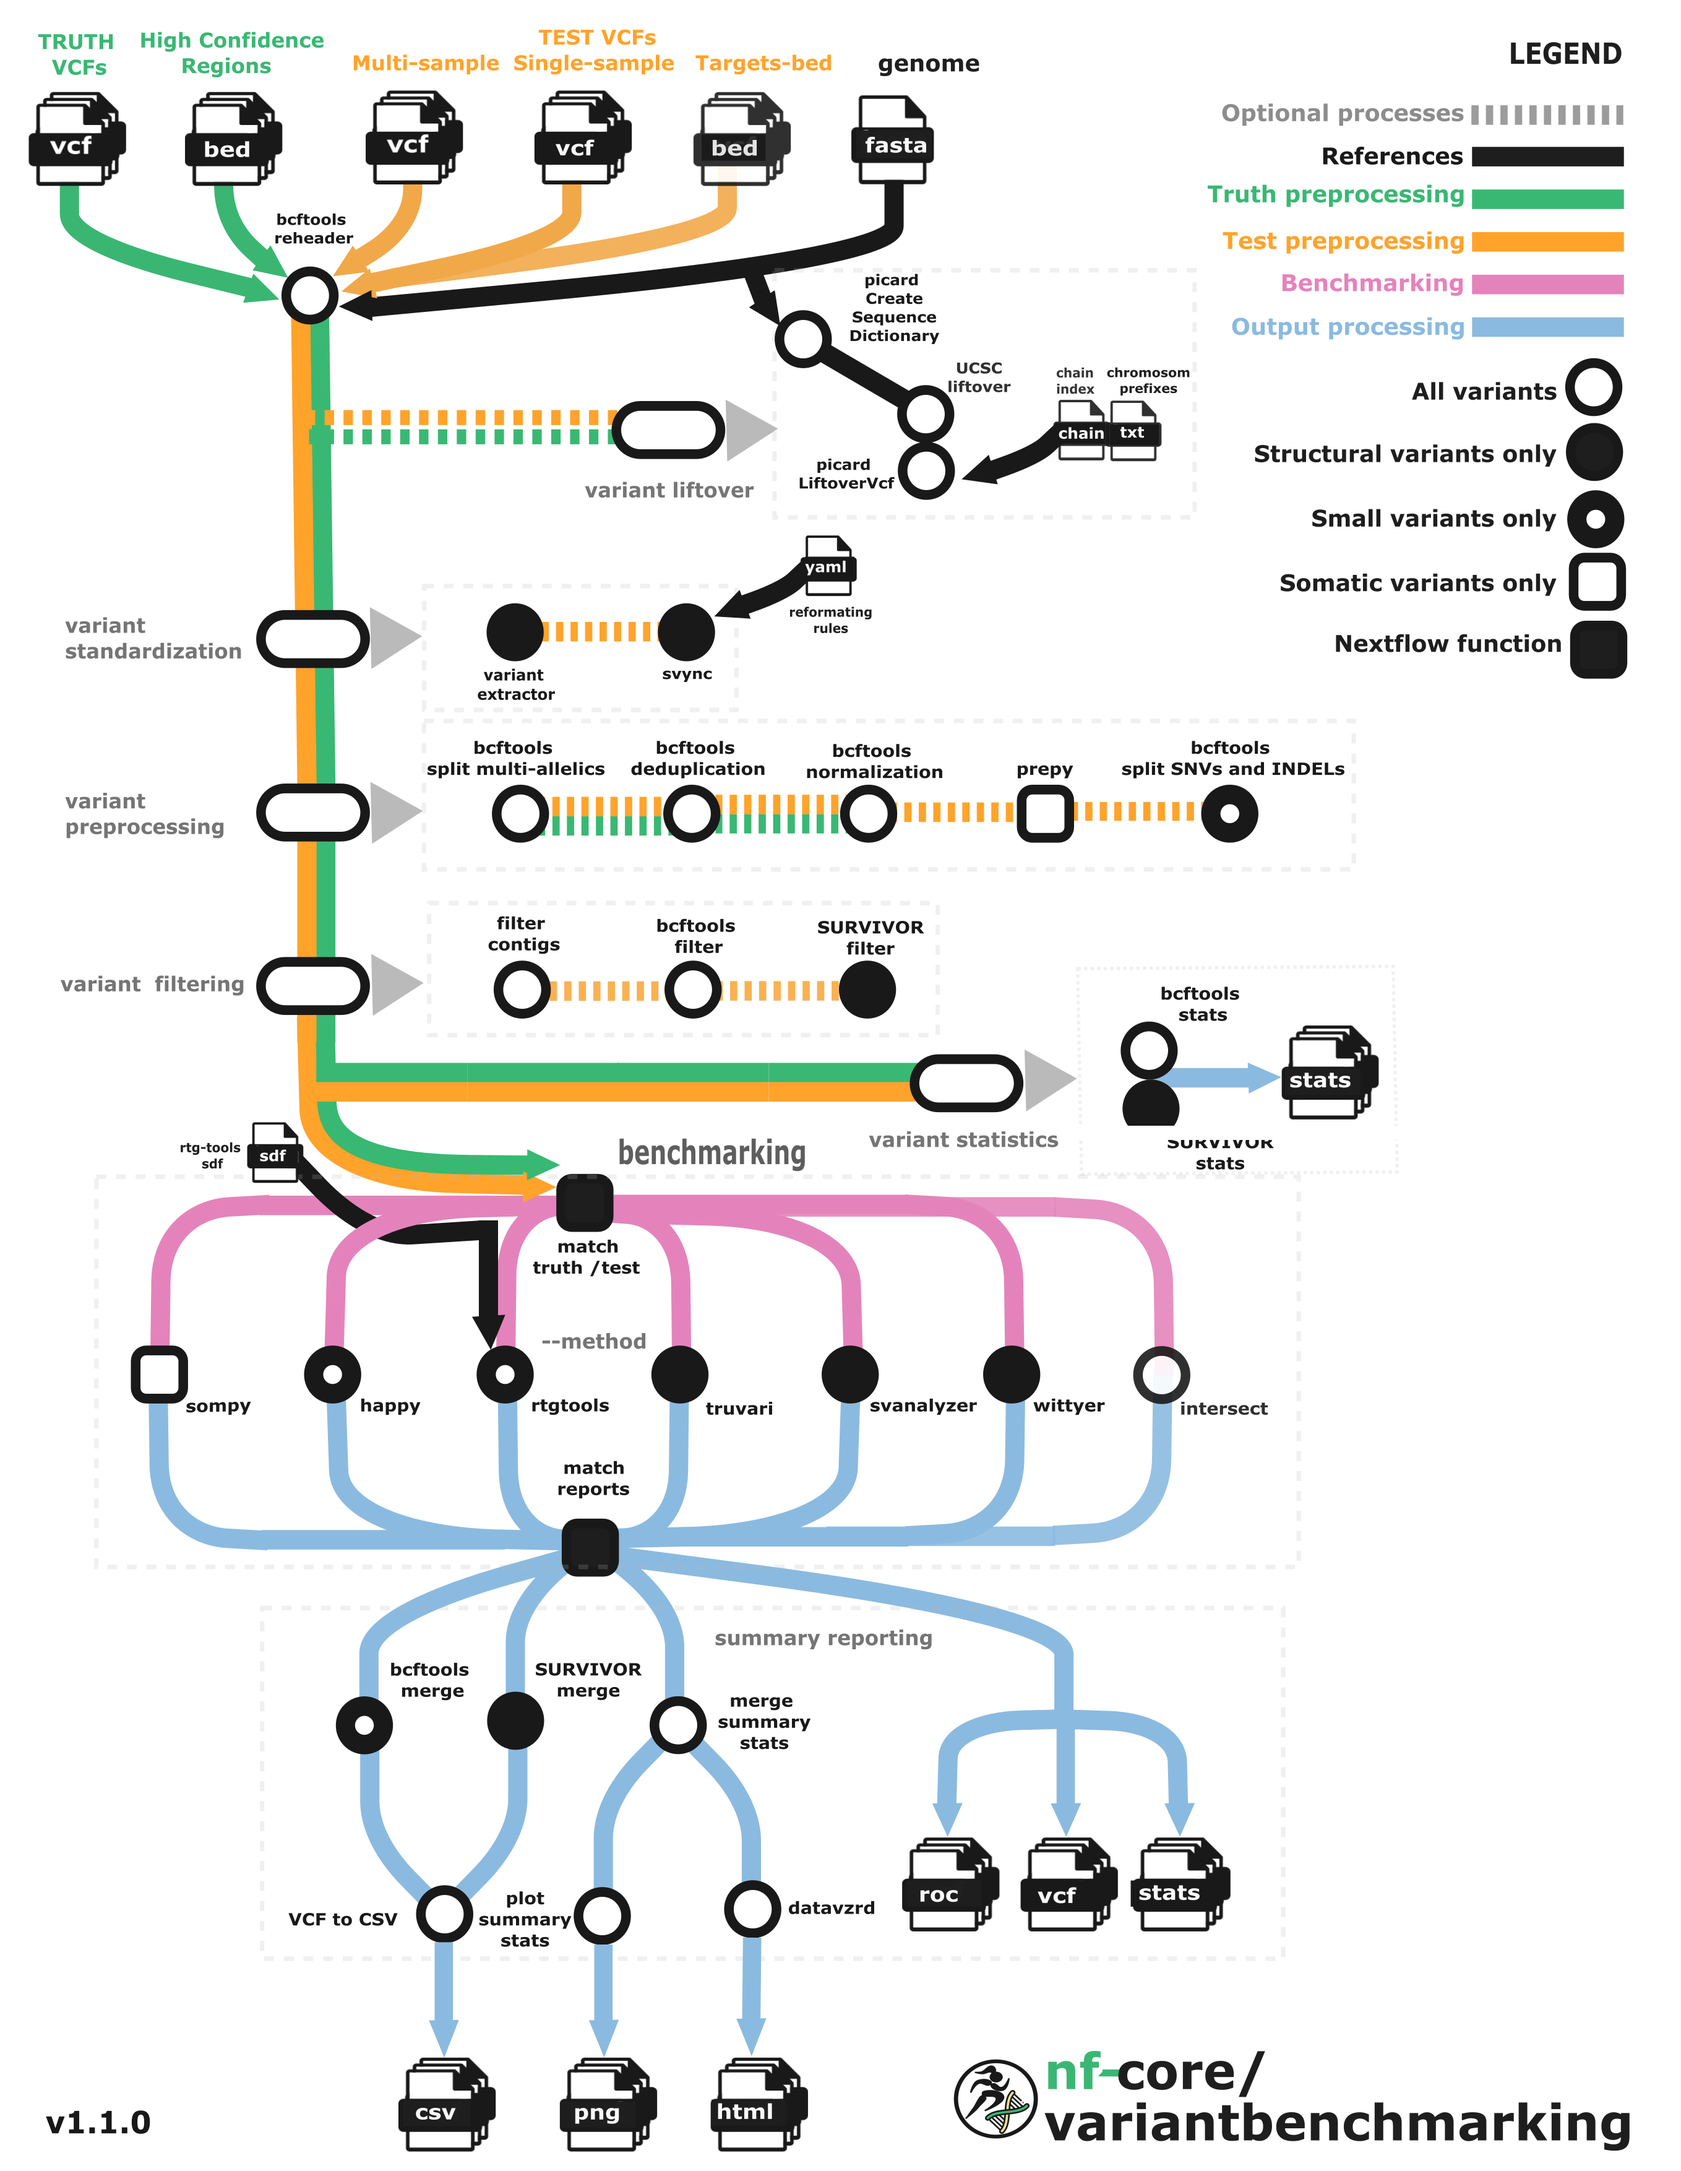
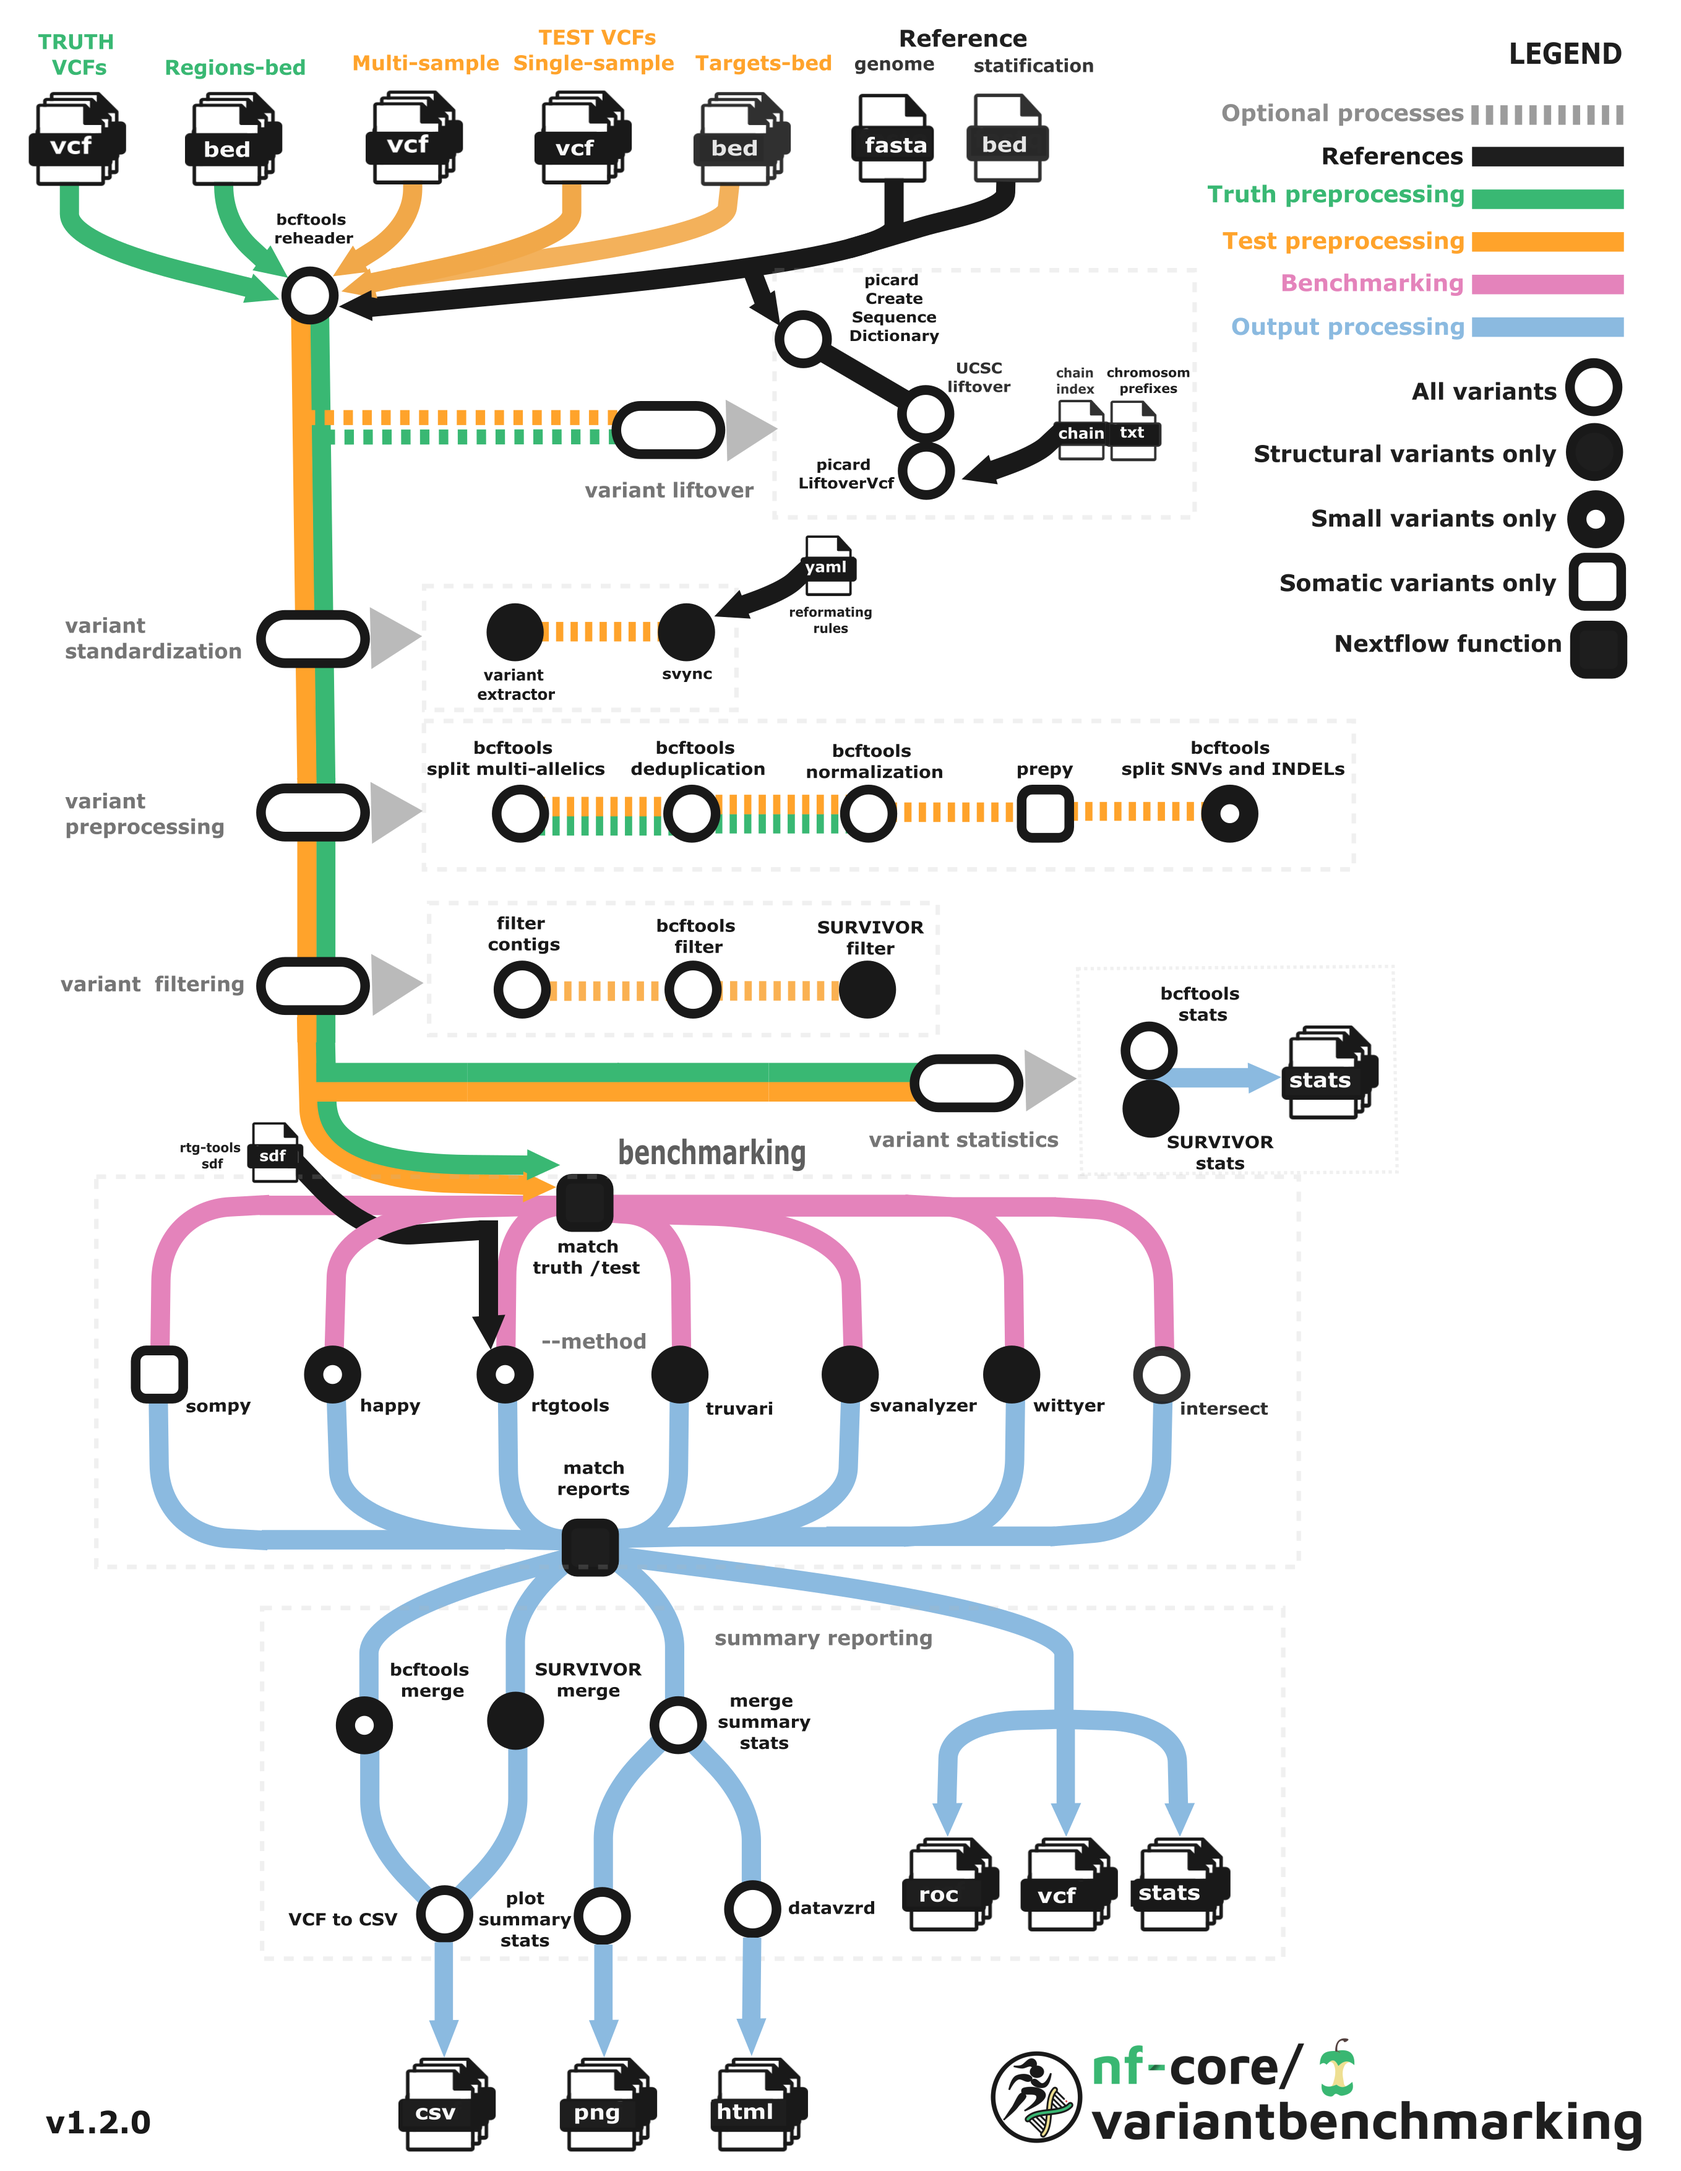
apply reviewer commands

diff --git a/CHANGELOG.md b/CHANGELOG.md
@@ -8,14 +8,13 @@ and this project adheres to [Semantic Versioning](https://semver.org/spec/v2.0.0
 ### `Added`
 
 - Updated metromap
-- Implementing optional bed files for benchmarking tools (happy, rtgtools, sompy)
-- Adding stratifications for genome
+- [Implementing optional bed files for benchmarking tools (happy, rtgtools, sompy) & adding stratifications for genome](https://github.com/nf-core/variantbenchmarking/pull/167)
 
 ### `Fixed`
 
-- official logo
-- bcftools_reheader issue for HPCs
-- json-schema-improvements
+- [official logo cleanup](https://github.com/nf-core/variantbenchmarking/pull/171)
+- [bcftools_reheader issue for HPCs](https://github.com/nf-core/variantbenchmarking/pull/170)
+- [json-schema-improvements](https://github.com/nf-core/variantbenchmarking/pull/168)
 
 ### `Dependencies`
 
